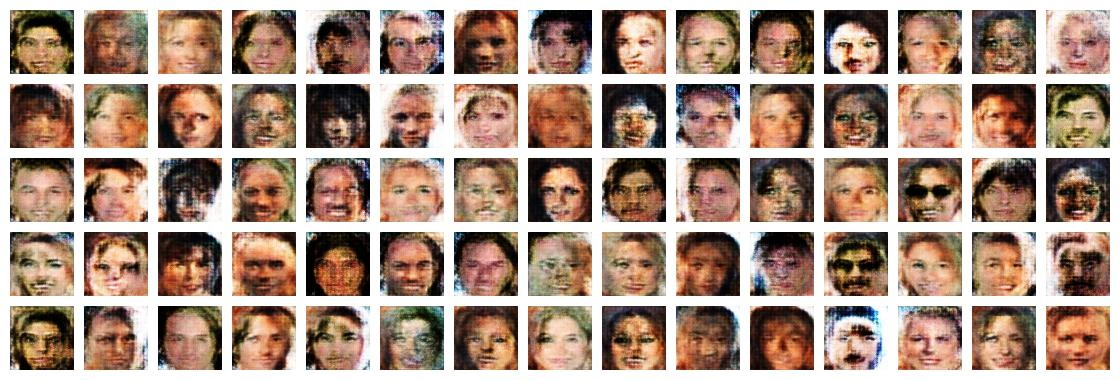
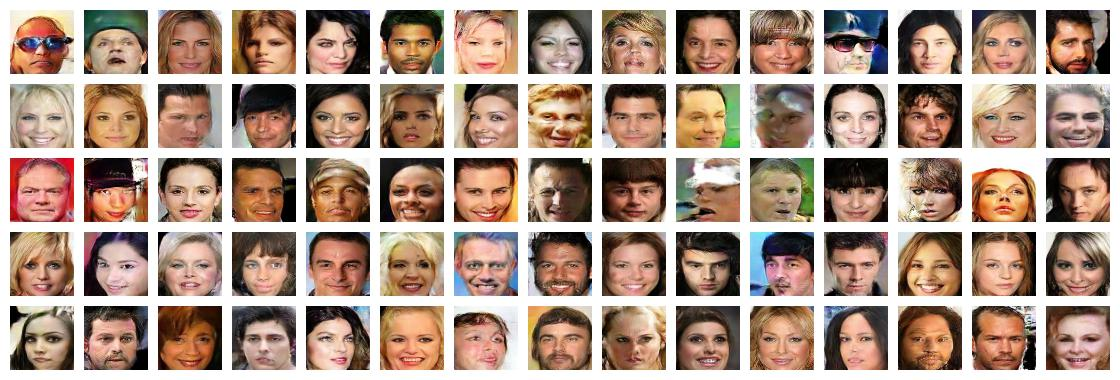
update

diff --git a/train.py b/train.py
@@ -18,20 +18,24 @@ if __name__ == '__main__':
    parser = argparse.ArgumentParser()
    parser.add_argument('--DATASET',    required=True,help='The DATASET to use')
    parser.add_argument('--DATA_DIR',   required=True,help='Directory where data is')
-   parser.add_argument('--BATCH_SIZE', required=True,help='Batch size',type=int)
+   parser.add_argument('--BATCH_SIZE', required=False,help='Batch size',type=int,default=128)
+   parser.add_argument('--NORM',       required=False,help='Use layer normalization in D',type=int,default=0)
+   parser.add_argument('--SELU',       required=False,help='Use SELU',type=int,default=0)
+   parser.add_argument('--SCALE',      required=False,help='Scale of gradient penalty',type=int,default=10)
    a = parser.parse_args()
 
    DATASET        = a.DATASET
    DATA_DIR       = a.DATA_DIR
    BATCH_SIZE     = a.BATCH_SIZE
-   CHECKPOINT_DIR = 'checkpoints/'+DATASET+'/'
-   IMAGES_DIR     = CHECKPOINT_DIR+'images/'
+   SCALE          = a.SCALE
+   NORM           = bool(a.NORM)
+   SELU           = bool(a.SELU)
 
-   try: os.mkdir('checkpoints/')
-   except: pass
-   try: os.mkdir(CHECKPOINT_DIR)
-   except: pass
-   try: os.mkdir(IMAGES_DIR)
+   CHECKPOINT_DIR = 'checkpoints/DATASET_'+DATASET+'/SCALE_'+str(SCALE)+'/NORM_'+str(NORM)+'/SELU_'+str(SELU)+'/'
+   IMAGES_DIR     = CHECKPOINT_DIR+'images/'
+   print IMAGES_DIR
+   exit()
+   try: os.makedirs(IMAGES_DIR)
    except: pass
    
    # placeholders for data going into the network
@@ -52,7 +56,8 @@ if __name__ == '__main__':
    # cost functions
    errD = tf.reduce_mean(errD_real) - tf.reduce_mean(errD_fake)
    errG = tf.reduce_mean(errD_fake)
-   
+
+   # gradient penalty
    epsilon = tf.random_uniform([], 0.0, 1.0)
    x_hat = real_images*epsilon + (1-epsilon)*gen_images
    d_hat = netD(x_hat, BATCH_SIZE, reuse=True)

diff --git a/architecture.py b/architecture.py
@@ -8,16 +8,16 @@ def netG(z, batch_size):
 
    z = tf.layers.dense(z, 4*4*1024, name='g_z')
    z = tf.reshape(z, [batch_size, 4, 4, 1024])
-   z = bn(relu(z))
+   z = relu(bn(z))
 
    conv1 = tf.layers.conv2d_transpose(z, 512, 5, strides=2, name='g_conv1', padding='SAME')
-   conv1 = bn(relu(conv1))
+   conv1 = relu(bn(conv1))
    
    conv2 = tf.layers.conv2d_transpose(conv1, 256, 5, strides=2, name='g_conv2', padding='SAME')
-   conv2 = bn(relu(conv2))
+   conv2 = relu(bn(conv2))
 
    conv3 = tf.layers.conv2d_transpose(conv2, 128, 5, strides=2, name='g_conv3', padding='SAME')
-   conv3 = bn(relu(conv3))
+   conv3 = relu(bn(conv3))
 
    conv4 = tf.layers.conv2d_transpose(conv3, 3, 5, strides=2, name='g_conv4', padding='SAME')
    conv4 = tf.nn.tanh(conv4)
